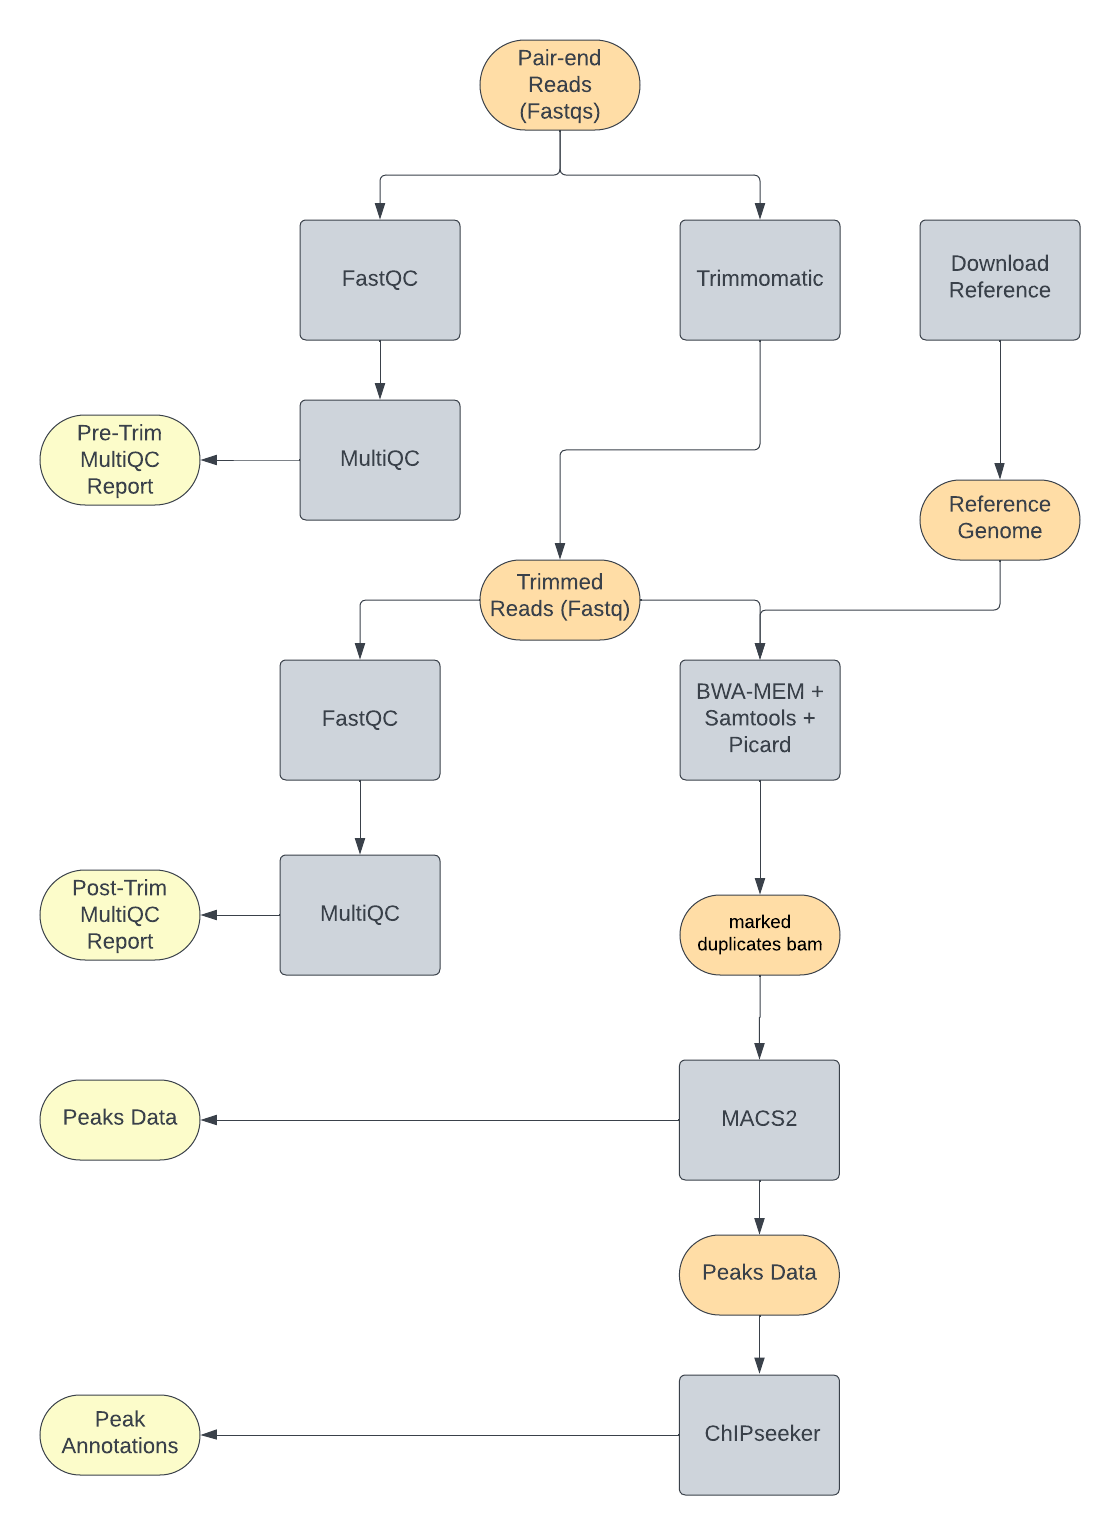
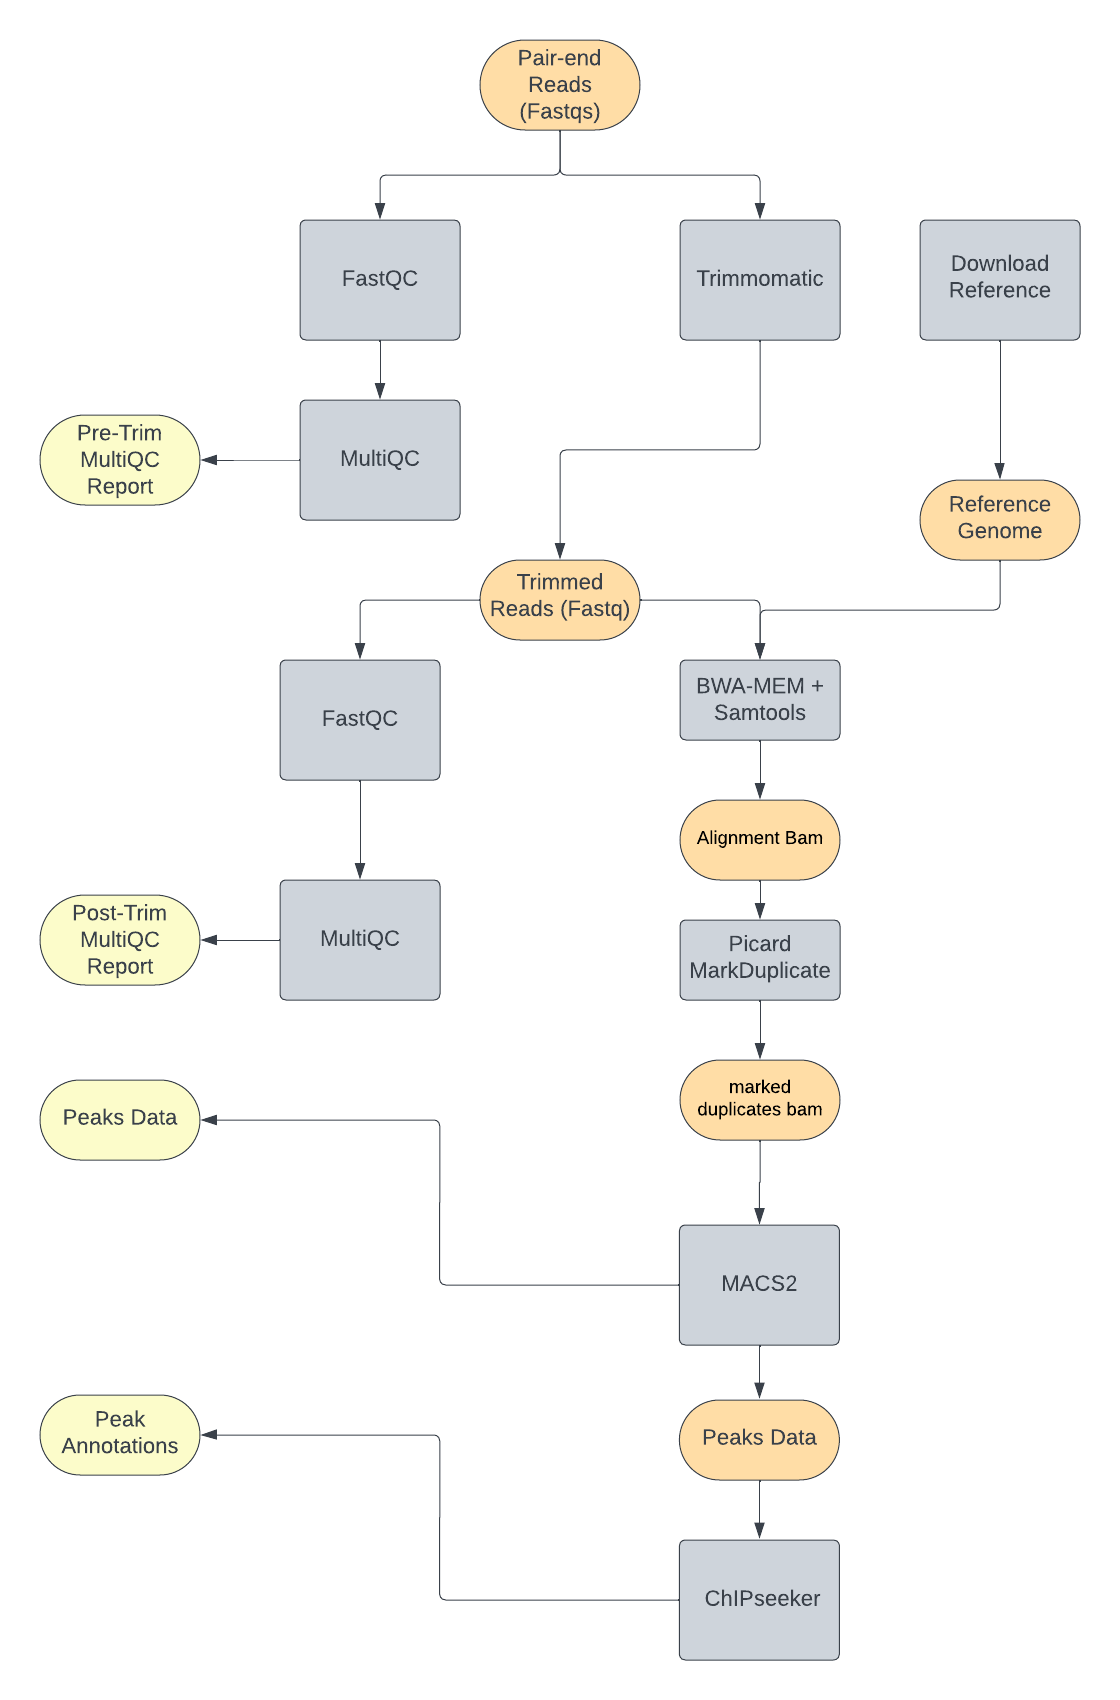
README

diff --git a/README.md b/README.md
@@ -1,24 +1,24 @@
 # BIOF501 Term Project: ATAC-seq Peak-calling and Annotation Pipeline
 
-### *By Jacky Yiu*
+### *By Chun Hei (Jacky) Yiu*
 
 ------------------------------------------------------------------------
 
-## Repository Contents
+## Contents of this Repository:
 
 ### Directories
 
--   `Inputs` : Contains inputs for the pipeline, which are pair-end reads in fastq format.
+-   `Inputs` : Contains inputs for the pipeline, which are pair-end reads in FastQ format.
 
 -   `script` : Contains the R scripts used in the pipeline for [ChIPseeker](https://bioconductor.org/packages/ChIPseeker/) peaks annotations.
 
 ### Files
 
--   dag.png: Representation of the overall workflow in PNGformat.
+-   `dag.png`: Graphical representation of the overall workflow in PNG format.
 
--   nextflow.config: Config file for Nextflow, contain all Docker container info and setting needed for using Singularity for this pipeline
+-   `nextflow.config`: Config file for Nextflow, contain all Docker container info and setting needed for using Singularity for this pipeline
 
--   workflow.nf: The main pipeline file that contain the instructions for running the pipeline through Nextflow.
+-   `workflow.nf`: The main pipeline file that contain the instructions for running the pipeline through Nextflow.
 
 ------------------------------------------------------------------------
 
@@ -26,9 +26,35 @@
 
 ### Background
 
+Recent gene regulation studies have focused on epigenetics, and through the advances of high-throughput sequencing technologies, various assays have been developed to decipher the epigenetic landscape, and one of the more wildly used method is Assay of Transposase Accessible Chromatin sequencing (ATAC-seq) [[1](#references)]. Ever since its debut in 2013, ATAC-seq data is used in a wide spectrum of biological questions [[2](#references)], such as depicting enhancer landscapes in healthy mammalian tissue and cell types [[3](#references)], studying accessibility changes between normal hematopoiesis and leukemia [[4](#references)], as well as the chromatin state within schizophrenia patients and the Cancer Genome Atlas (TCGA) pan-cancer cohort [[5](#references)].
+
+Briefly, ATAC-seq incorporates a genetically engineered hyperactive Tn5 transposase that simultaneously cuts open chromatin leaving a 9-bp staggered nick and ligates high-throughput sequencing adapters to these regions. During this process, the nick is repaired, leaving a 9-bp duplication [[6](#references)]. Paired-end sequencing is then performed to facilitate higher unique alignment rates of these open regions.
+
+The following figures show the schematic diagram of ATAC-seq:
+
+![](images/ATAC.png)
+
 ### Purpose
 
+My pipeline will cover the four most important steps in ATAC-seq data analysis in Human genome:
+
+1.  Quality Control
+
+2.  Alignment
+
+3.  Post alignment Processing
+
+4.  Core analysis (Peak Calling)
+
+5.  Advanced peaks analysis (Peak Annotation)
+
+These steps will allow researchers to conduct robust analysis on ATAC-seq data and generate more biological meaningful results.
+
 ### Rationale
+
+Despite the simplicity and robustness of ATAC-seq, a major impediment exists as there are few bioinformatic analysis tools developed specifically for ATAC-seq data [[7](#references)]. Analysis tools used in ChIP-seq and DNase-seq ([MACS2](https://pypi.org/project/MACS2/) [[8](#references)], [ChIPseeker](https://bioconductor.org/packages/ChIPseeker/) [@yu2015], [HOMER](http://homer.ucsd.edu/homer/ngs/annotation.html) [[9](#references)], etc) have been applied to ATAC-seq assuming similar data characteristics [[10](#references)].
+
+The major focus of this pipeline is to show case current resources for ATAC-seq analysis and develop a basic pipeline workflow that covers the major parts of ATAC-seq data analysis.
 
 ------------------------------------------------------------------------
 
@@ -50,6 +76,22 @@ After installing all three, clone the repository by running the following comman
 git clone https://github.com/Jacky-Yiu/ATAC-seq_Peak_Calling_Pipeline.git
 ```
 
+The pipeline use the following container from [DockerHub](https://hub.docker.com/):
+
+``` bash
+staphb/fastqc:latest
+ewels/multiqc:latest
+staphb/fastqc:latest
+ewels/multiqc:latest
+staphb/trimmomatic:latest
+niemasd/minimap2_samtools:latest
+broadinstitute/picard:latest
+dukegcb/macs2:latest
+jackyyiu0810/chipseeker:v0.9
+```
+
+Nextflow will automatically download all the container and run the analysis inside them, so you do need to manually download them, just make sure `singularity` is properly installed and is in you PATH.
+
 ### Running the Pipeline
 
 Th command above should download the pipeline in your local directory, enter the pipeline directory using the following command:
@@ -64,46 +106,150 @@ The pipeline can then be run by typing in:
 nextflow run workflow.nf
 ```
 
+It will take around 15 mins for the first run since Nextflow need to pull all the required container, but subsequent run should be a lot quicker (\~5-10mins) since the container is downloaded.
+
 ### Pipeline Overview
 
 The following is a simplified representation of the workflow in a Directed Acyclic Graph (DAG):
 
-![DAG](dag.png)
+![DAG](dag.png){width="679"}
 
-This pipeline will take in pair-end Fastq generatedby ATAC-Seq and go through 4 phases
+This pipeline will take in pair-end FastQ generated by ATAC-Seq and go through 5 phases
 
-1.  Pre-alignment QC:
+1.  Quality Control and Read Trimming:
+
+    -   The pre-alignment QC steps are standard for most high-throughput sequencing technologies. In this pipline, FastQC and MultiQC [[11](#references)] are used to visualize base quality scores, GC content, sequence length distribution, sequence duplication levels, k-mer overrepresentation and contamination of primers and adapters in the sequencing data.
+
+    -   Currently, due to the ubiquitous use of Illumina's Nextera library for ATAC-seq, over-representation of Nextera sequencing adapters is often observed and should be removed for accurate read alignment. We use Trimmomatic [[12](#references)] in this pipeline as it have a built-in adapter sequences for Nextera and TruSeq library. Low-quality bases can also be eliminated using these tools.
+
+    -   After read trimming, FastQC and MultiQC can be performed again to check the successful removal of adapter and low-quality bases. Trimmed reads are then mapped to a reference genome.
 
 2.  Alignment:
 
-3.  Post-alignment QC:
+    -   We first download the hg19 reference for alignment.
+    -   BWA-MEM aligner [[13](#references)] is used because it is memory-efficient and fast for short paired-end reads. The soft-clip strategy from BWA-MEM allows the overhang of bases on both ends of reads which can further increase unique mapping rates.
+
+3.  Post-alignment processing:
+
+    -   After sequence alignment, as in most DNA sequencing data, basic metrics of the aligned BAM file, such as unique mapping reads/rates, duplicated read percentages, and fragment size distribution can be collected using Picard [[14](#references)] and SAMtools [[15](#references)].
 
 4.  Peak Calling:
 
+    -   The second major step of ATAC-seq data analysis is to identify accessible regions (also referred to as peaks) and is the basis for advanced analysis. MACS2 is is used here as it the default peak caller of most ATAC-seq pipeline, it is actively being maintained and consume less computational resource than other tools such as HMMRATAC [[16](#references)].
+
 5.  Peak Annotation:
+
+    -   After obtaining peak sets, annotation of peaks is done to associate chromatin accessibility with gene regulation. Normally, peaks are annotated by the nearest genes or regulatory elements. ChIPseeker [[17](#references)] is used here as it is widely used to assign peaks to nearest or overlapping gene, exon, intron, promoter, 5′ untranslated region (UTR), 3′ UTR, and other genomic features.ChIPseeker also have abundant visualization functions for interpreting annotation results, such as a pie chart of annotated genomic features.
 
 ### Data Used
 
+For this pipeline, an example human genome ATAC-seq data is used, it came from a study in 2023 that study Chromatin compaction [[18](#references)]. The SRA accession of the dataset is [SRR26784755](https://www.ncbi.nlm.nih.gov/sra/?term=SRR26784755). The experiment want to see how the over-expression of E3 ubiquitin ligase TRIP12 induces the formation of chromatin condensates and interferes with DNA damage response. They generated the data using ATAC-seq on transfected Hela S3 cells and sequence using Illumina sequencing (NextSeq 500).
+
+Since the pipeline is only aim for covering the general peak analysis of ATAC-seq, the background of the data is not of particular interest to me, I only need an example ATAC-seq dats on human genome.
+
+The original data is more than 2GB, I used the following command to sample the original fastq and produce two example sample pair-end reads that is used in the pipeline.
+
+``` bash
+seqtk sample -s100 SRR26784755_2.fastq.gz 100000 > genome_a2.fq
+seqtk sample -s100 SRR26784755_1.fastq.gz 100000 > genome_a1.fq
+
+seqtk sample -s654 SRR26784755_2.fastq.gz 100000 > genome_b2.fq
+seqtk sample -s654 SRR26784755_1.fastq.gz 100000 > genome_b1.fq
+
+gzip genome_*.fq
+```
+
+Basically, `seqtk sample` randomly sample (seed = 100, 654) 100000 reads from the original fastq to create 2 smaller sample. The pipeline is designe to take in multiple fastq in the input file as long as the have the following naming convention:
+
+-   `{sample_name}1.fq.gz`
+
+-   `{sample_name}2.fq.gz`
+
+For reference, hg38 is used as it is the most popular option. it is automatically downloaded when you run the pipeline, it is downloaded from the UCSC human genome database:
+
+<https://hgdownload.cse.ucsc.edu/goldenpath/hg38/bigZips/hg38.fa.gz>
+
 ------------------------------------------------------------------------
 
-## Outputs and Results
-
-### Pipeline outputs
+## Outputs
 
 The four outputs of this pipeline are as follows:
 
-1.  Pre-trim FastQC Report
+1.  Pre-trim MultiQC Report
 
-2.  Post-trim FastQC Report
+    -   A HTML file that visualize base quality scores, GC content, sequence length distribution, sequence duplication levels, k-mer overrepresentation and contamination of primers and adapters in the pre-trimmed pair-end fastq.
 
-3.  Peak File
+2.  Post-trim MultiQC Report
+
+    -   A HTML file that visualize base quality scores, GC content, sequence length distribution, sequence duplication levels, k-mer overrepresentation and contamination of primers and adapters in the trimmed pair-end fastq.
+
+3.  Peaks File
+
+    -   ``` MACS2_output/{Sample_ID}/``{Sample_ID}``_peaks.narrowPeak ```
+
+        -   A narrowPeak (.narrowPeak) file is used by the ENCODE project to provide called peaks of signal enrichment based on pooled, normalized (interpreted) data. It is a BED 6+4 format, which means the first 6 columns of a standard BED file with **4 additional fields**:
+
+            ![](images/narrowPeak.png){width="800"}
+
+    -   `MACS2_output/{Sample_ID}/{Sample_ID}_peaks.xls`
+
+        -   a tabular file which contains information about called peaks. Additional information includes pileup and fold enrichment
+
+    -   `MACS2_output/{Sample_ID}/{Sample_ID}_summits.bed` :
+
+        -   peak summits locations for every peak. 
 
 4.  Peak Annotation Plot
 
-### Results
+    -   `peak_plot.pdf` : Contain 2 plots:
 
-### Future directions
+        -   Pie chart of genomic region annotation:
+
+            ![](images/pie-02.png){width="426"}
+
+        -   Upset Plot of genomic region annotation:
+
+            ![](images/offset.png){width="554"}
 
 ------------------------------------------------------------------------
 
 ## References {#references}
+
+[1] Buenrostro, Jason D., Beijing Wu, Howard Y. Chang, and William J. Greenleaf. 2015. \"ATAC-seq: A Method for Assaying Chromatin Accessibility Genome-Wide.\" *Current Protocols in Molecular Biology* 109 (January): 21.29.1--9. <https://doi.org/10.1002/0471142727.mb2129s109>.
+
+[2] Yan, Feng, David R. Powell, David J. Curtis, and Nicholas C. Wong. 2020. \"From Reads to Insight: A Hitchhiker\'s Guide to ATAC-Seq Data Analysis.\" *Genome Biology* 21 (1): 22. <https://doi.org/10.1186/s13059-020-1929-3>.
+
+[3] Cusanovich, Darren A., Andrew J. Hill, Delasa Aghamirzaie, Riza M. Daza, Hannah A. Pliner, Joel B. Berletch, Galina N. Filippova, et al. 2018. \"A Single-Cell Atlas of in Vivo Mammalian Chromatin Accessibility.\" *Cell* 174 (5): 1309--1324.e18. <https://doi.org/10.1016/j.cell.2018.06.052>.
+
+[4] Corces, M. Ryan, Jason D. Buenrostro, Beijing Wu, Peyton G. Greenside, Steven M. Chan, Julie L. Koenig, Michael P. Snyder, et al. 2016. \"Lineage-Specific and Single-Cell Chromatin Accessibility Charts Human Hematopoiesis and Leukemia Evolution.\" *Nature Genetics* 48 (10): 1193--203. <https://doi.org/10.1038/ng.3646>.
+
+[5] Bryois, Julien, Melanie E. Garrett, Lingyun Song, Alexias Safi, Paola Giusti-Rodriguez, Graham D. Johnson, Annie W. Shieh, et al. 2018. \"Evaluation of Chromatin Accessibility in Prefrontal Cortex of Individuals with Schizophrenia.\" *Nature Communications* 9 (1): 3121. <https://doi.org/10.1038/s41467-018-05379-y>.
+
+[6] Buenrostro, Jason D., Paul G. Giresi, Lisa C. Zaba, Howard Y. Chang, and William J. Greenleaf. 2013. \"Transposition of Native Chromatin for Fast and Sensitive Epigenomic Profiling of Open Chromatin, DNA-Binding Proteins and Nucleosome Position.\" *Nature Methods* 10 (12): 1213--18. <https://doi.org/10.1038/nmeth.2688>.
+
+[7] Angarica, Vladimir Espinosa, and Antonio del Sol. 2017. \"Bioinformatics Tools for Genome-Wide Epigenetic Research.\" In, edited by Raul Delgado-Morales, 489--512. Advances in Experimental Medicine and Biology. Cham: Springer International Publishing. <https://doi.org/10.1007/978-3-319-53889-1_25>.
+
+[8] Zhang, Yong, Tao Liu, Clifford A. Meyer, Jérôme Eeckhoute, David S. Johnson, Bradley E. Bernstein, Chad Nusbaum, et al. 2008. \"Model-Based Analysis of ChIP-Seq (MACS).\" *Genome Biology* 9 (9): R137. <https://doi.org/10.1186/gb-2008-9-9-r137>.
+
+[9] Heinz, Sven, Christopher Benner, Nathanael Spann, Eric Bertolino, Yin C. Lin, Peter Laslo, Jason X. Cheng, Cornelis Murre, Harinder Singh, and Christopher K. Glass. 2010. \"Simple combinations of lineage-determining transcription factors prime cis-regulatory elements required for macrophage and B cell identities.\" *Molecular Cell* 38 (4): 576--89. <https://doi.org/10.1016/j.molcel.2010.05.004>.
+
+[10] Chang, Pearl, Moloya Gohain, Ming-Ren Yen, and Pao-Yang Chen. 2018. \"Computational Methods for Assessing Chromatin Hierarchy.\" *Computational and Structural Biotechnology Journal* 16 (January): 43--53. <https://doi.org/10.1016/j.csbj.2018.02.003>.
+
+[11] Ewels, Philip, Måns Magnusson, Sverker Lundin, and Max Käller. 2016. \"MultiQC: Summarize Analysis Results for Multiple Tools and Samples in a Single Report.\" *Bioinformatics* 32 (19): 3047--48. <https://doi.org/10.1093/bioinformatics/btw354>.
+
+[12] Bolger, Anthony M., Marc Lohse, and Bjoern Usadel. 2014. \"Trimmomatic: A Flexible Trimmer for Illumina Sequence Data.\" *Bioinformatics* 30 (15): 2114--20. <https://doi.org/10.1093/bioinformatics/btu170>.
+
+[13] Li, Heng, and Richard Durbin. 2009. \"Fast and Accurate Short Read Alignment with Burrowswheeler Transform.\" *Bioinformatics* 25 (14): 1754--60. <https://doi.org/10.1093/bioinformatics/btp324>.
+
+[14] \"Picard Tools - by Broad Institute.\" n.d. <https://broadinstitute.github.io/picard/>.
+
+[15] Li, Heng, Bob Handsaker, Alec Wysoker, Tim Fennell, Jue Ruan, Nils Homer, Gabor Marth, Goncalo Abecasis, Richard Durbin, and 1000 Genome Project Data Processing Subgroup. 2009. \"The Sequence Alignment/Map Format and SAMtools.\" *Bioinformatics* 25 (16): 2078--79. <https://doi.org/10.1093/bioinformatics/btp352>.
+
+[16] Tarbell, Evan D., and Tao Liu. 2019. \"HMMRATAC: a Hidden Markov ModeleR for ATAC-seq.\" *Nucleic Acids Research* 47 (16): e91. <https://doi.org/10.1093/nar/gkz533>.
+
+[17] Yu, Guangchuang, Li-Gen Wang, and Qing-Yu He. 2015a. \"ChIPseeker: An r/Bioconductor Package for ChIP Peak Annotation, Comparison and Visualization.\" *Bioinformatics* 31 (14): 2382--83. <https://doi.org/10.1093/bioinformatics/btv145>.
+
+[18] Vargas, Claire, Manon Brunet, Alban Ricard, Damien Varry, Dorian Larrieu, Fernando Muzzopappa, Fabian Erdel, et al. n.d. \"The Intrinsically Disordered Region of the E3 Ubiquitin Ligase TRIP12 Induces the Formation of Chromatin Condensates and Interferes with DNA Damage Response.\" <https://doi.org/10.1101/2023.09.13.556486>.
+
+
+
